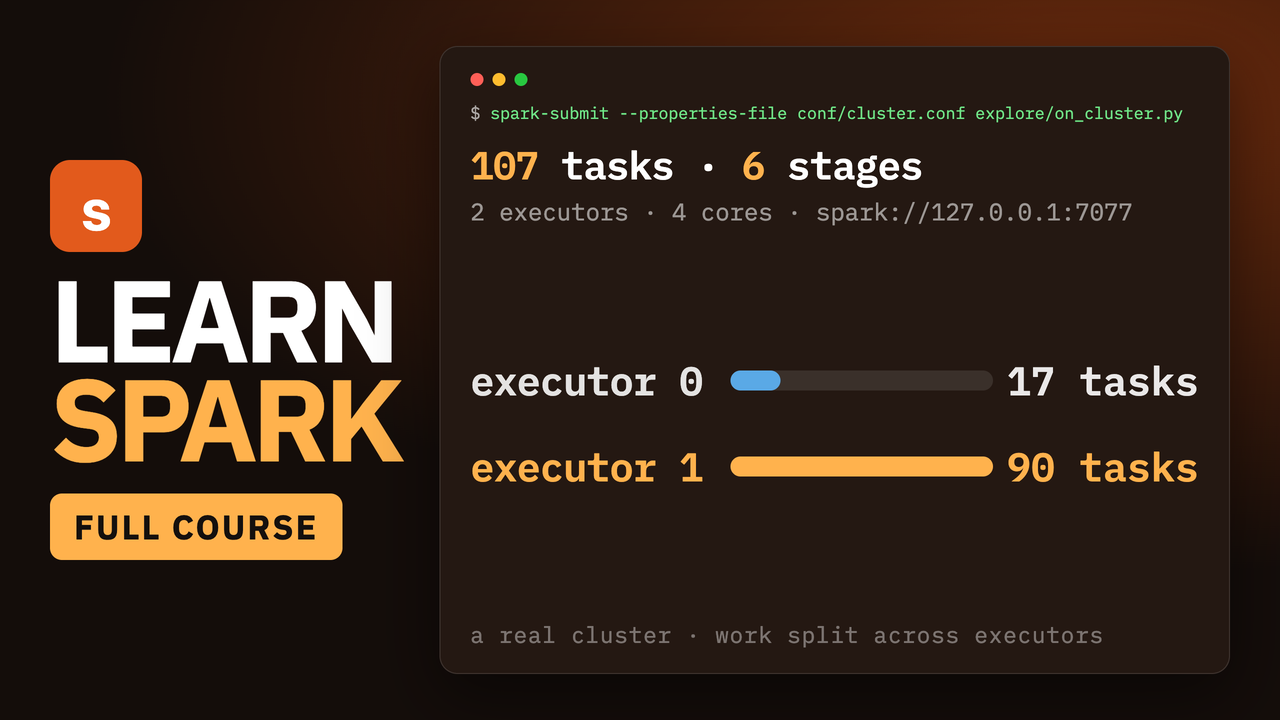
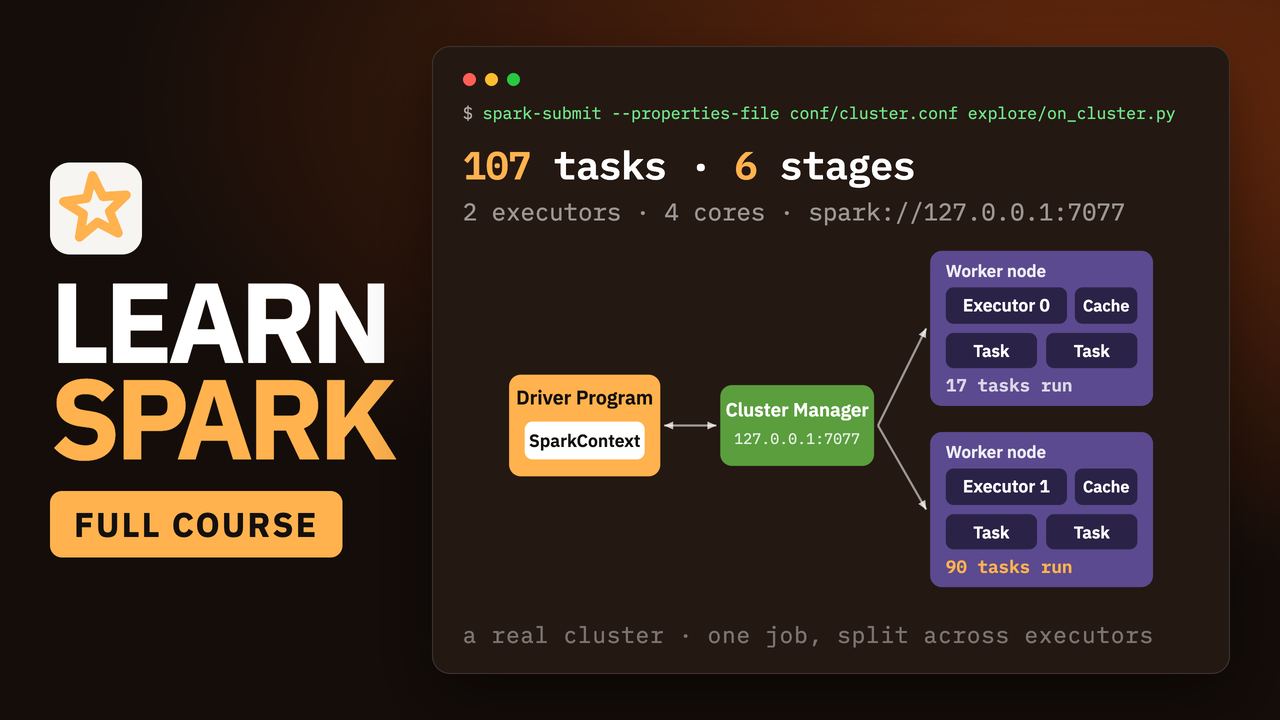
udpate

diff --git a/output/thumbnails/README.md b/output/thumbnails/README.md
@@ -10,34 +10,69 @@ npm run thumb:film -- --theme dark --source cluster --out output/thumbnails/film
 Variants: `film-dark.png` (shipped), `film-ember.png` (brighter amber),
 `film-light.png` (stands out in a dark feed), `film-kpis.png` (the other source, below).
 
+## The mark is ours, on purpose
+
+The tile is **not** the Apache Spark logo, and not a lookalike either. That is an ASF
+trademark: the ASF permits a third party to use a project logo essentially only as a hyperlink
+to the project's own site, and separately forbids applying a "confusingly similar" derivative —
+which rules out drawing our own fan shape as much as copying theirs. The *name* "Apache Spark"
+is fine nominatively, in the title and the narration; the mark is not.
+
+So the tile is a drawn glyph of our own: a plain five-pointed star — a spark — outlined on a
+light tile. It resembles nobody's mark, carries no ASF identity and claims no endorsement.
+
+**The sister data-science repo reaches the opposite conclusion, correctly:** it carries the real
+pandas logo, because pandas publishes its logo under BSD-3-Clause — a copyright licence that
+permits redistribution with the notice retained. Copyright and trademark are different
+questions, and the answer is per-project. Do not copy either decision across without checking.
+
 ## The two sources, both real
 
-`--source cluster` (default, shipped) renders `spine/production/04-cluster/session.txt`:
-the real `spark-submit --properties-file conf/cluster.conf explore/on_cluster.py`, its
-master and executor/core counts, and the genuine task split — 6 stages, 107 tasks,
-executor 0 ran 17 and executor 1 ran 90. It leads with `spark-submit` because that is
-the command a Spark user recognises.
+`--source cluster` (default, shipped) renders `spine/production/04-cluster/session.txt`: the
+real `spark-submit --properties-file conf/cluster.conf explore/on_cluster.py`, its master and
+executor/core counts, and the genuine task split — 6 stages, 107 tasks, executor 0 ran 17 and
+executor 1 ran 90.
 
-`--source kpis` renders `spine/analytics/01-kpis/session.txt`: GMV €2,178,214 over
-18,014 paid orders, with the busiest days as bars and Black Friday (2026-11-27) as the
-hero row.
+The card draws the picture every Spark user knows — **Driver Program / SparkContext → Cluster
+Manager → Worker nodes with Executors, Cache and Tasks** — but it is drawn from *this run*
+rather than copied from the docs. Every label is the session's:
+
+- the Cluster Manager carries the real master, `127.0.0.1:7077`;
+- there is one Worker node box per worker the session started (`2 workers × 2 cores`), and one
+  `Task` box per core each was given;
+- each executor shows the tasks it really ran: **17 and 90**.
+
+That last line is why this is worth doing honestly. The canonical diagram implies a tidy, even
+split; this run was five-to-one lopsided, and the cover says so. A diagram drawn from the docs
+would have shown a balance the course never produced.
+
+The session reports how many stages ran, not what each one did, so no stage is named anywhere
+on the card — the count appears in the headline and nothing more is claimed.
+
+`--source kpis` renders `spine/analytics/01-kpis/session.txt`: GMV €2,178,214 over 18,014 paid
+orders, with the busiest days as bars and Black Friday (2026-11-27) as the hero row.
 
 The command and the numbers always come from the **same** session, never mixed. Pasting
-`spark-submit` above the KPI figures would advertise output that command did not produce
-— the failure mode this whole script exists to avoid.
+`spark-submit` above the KPI figures would advertise output that command did not produce — the
+failure mode this whole script exists to avoid.
 
 ## Why not `npm run thumb` (the shell's `graphl-thumb`)
 
-That template is a **per-course** poster: 58% of a scene plus a text panel. A scene is a
-16:9 video frame, and cropped to 58% it turns to unreadable mush at the ~168px wide the
-YouTube mobile feed actually renders — the only size that decides a thumbnail.
-`scripts/thumb-film.mjs` uses poster grammar instead: few elements, enormous type, one
-focal object. Every change was checked by downscaling to 168px, not at 1280px.
+That template is a **per-course** poster: 58% of a scene plus a text panel. A scene is a 16:9
+video frame, and cropped to 58% it turns to unreadable mush at the ~168px wide the YouTube
+mobile feed actually renders — the only size that decides a thumbnail.
+`scripts/thumb-film.mjs` uses poster grammar instead: few elements, enormous type, one focal
+object. Every change was checked by downscaling to 168px, not at 1280px. At that size what
+survives is LEARN / SPARK, the badge, `107 tasks · 6 stages`, and the orange-green-purple
+topology as a shape — which is the one picture that says "Spark" without a word being read.
 
 ## Guards
 
-Everything on the card is parsed out of a spine `session.txt` — the same replayed output
-the scenes use — and a row or day that is not in that output is a hard error, so no
-invented figure can reach the thumbnail. The renderer also asserts that no element
-overflows its box, and the long `spark-submit` line is **shrunk to fit, never truncated**,
-so the command always appears in full.
+Everything on the card is parsed out of a spine `session.txt` — the same replayed output the
+scenes use — and a row or day that is not in that output is a hard error, so no invented figure
+can reach the thumbnail. The diagram is held to the same rule: if the session's worker count
+and its executor count ever disagree, the render **fails** rather than drawing a box it cannot
+source. The renderer also asserts that no element overflows its box, and the
+long `spark-submit` line is **shrunk to fit, never truncated**, so the command always appears in
+full. The headline splits on spaces into one line per word and shrinks against the left column's
+max width, so a longer concept name cannot push the card off the canvas.
